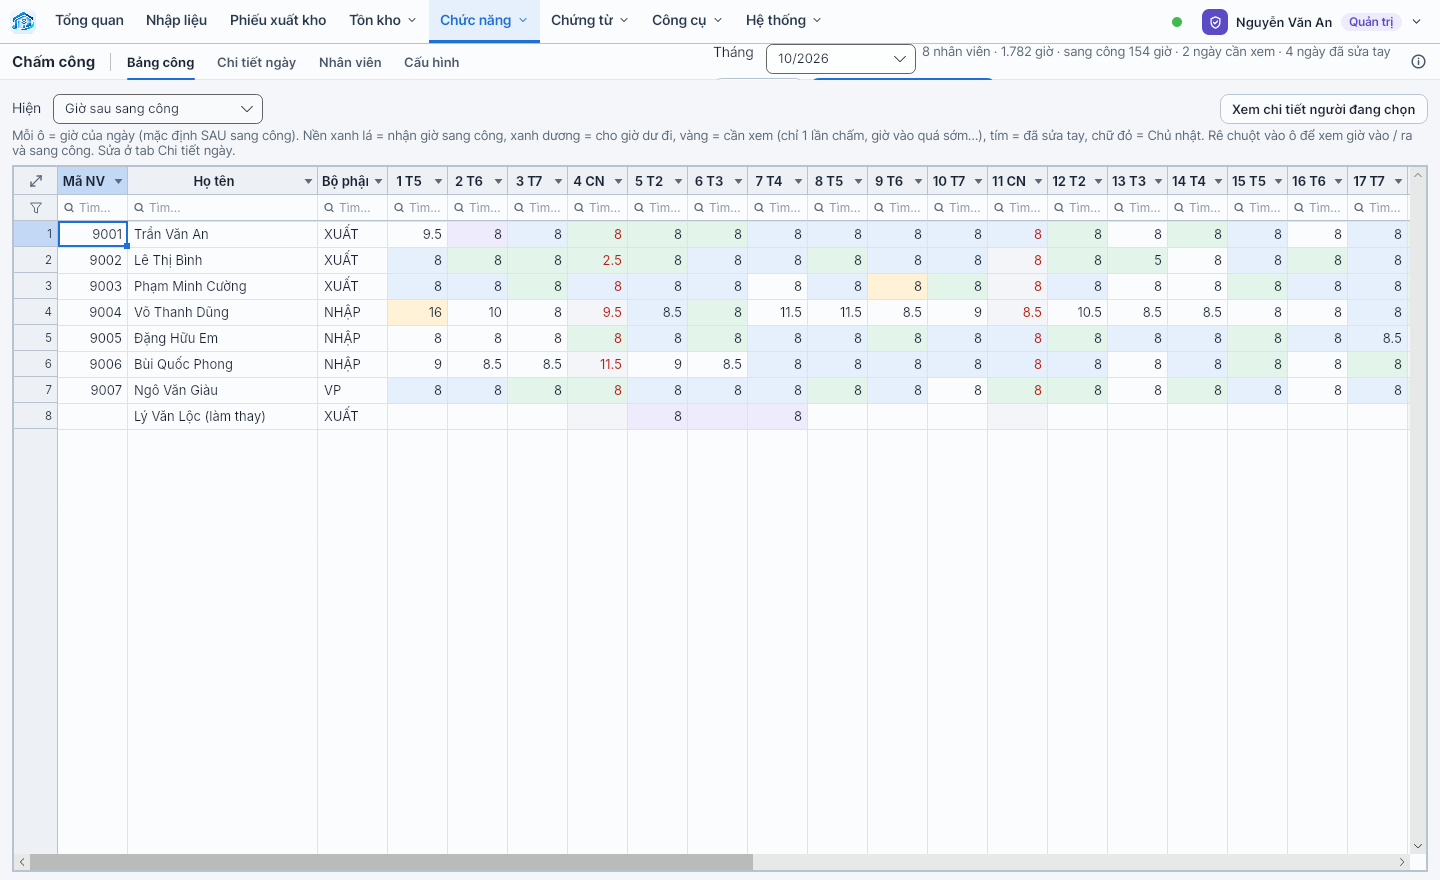
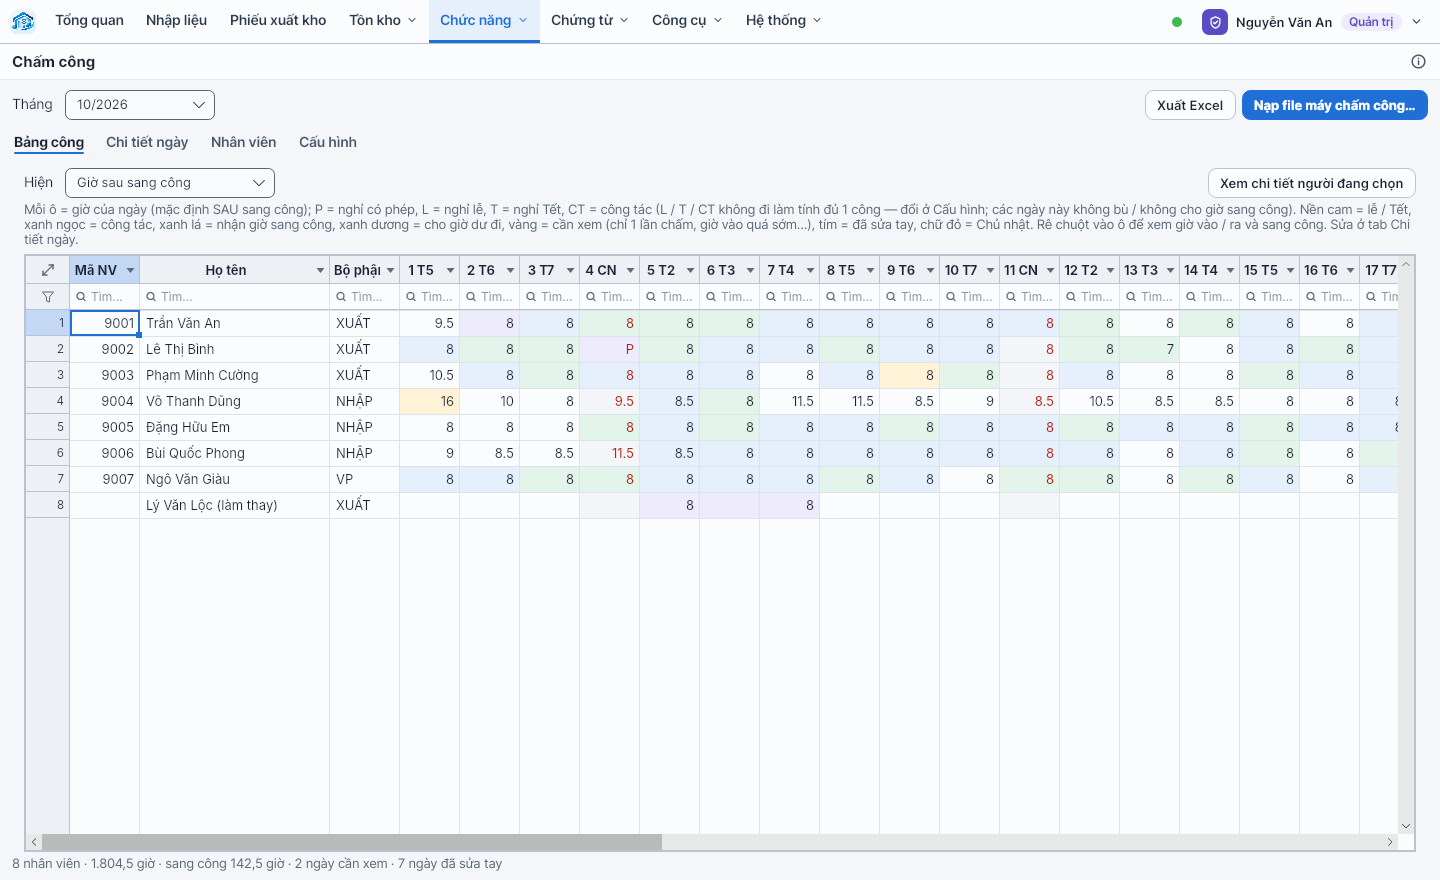
Chấm công: tự kiểm lễ / Tết / công tác (SHOTS_ONLY=cc), sửa nút Xuất Excel / Nạp file bị khuất ở hàng tên trang, Cấu hình hiện khung Ngày lễ
Claude-Session: https://claude.ai/code/session_01MTkPYimQvvPsXpUG8Yg2zd

diff --git a/tools/Screenshots/Program.cs b/tools/Screenshots/Program.cs
@@ -1861,7 +1861,7 @@ if (Environment.GetEnvironmentVariable("SHOTS_ONLY") == "cc")
     var bu = t.Ngays.FirstOrDefault(d => t.Dong[(nv2.Id, d)].Chot == 0 && t.Dong[(nv2.Id, d)].Nhan.Count > 0);
     if (bu != default)
     {
-        cc.SaveSua("2026-10", new[] { new KhoLanh.Core.ChamCong.CcSua { Nv = nv2.Id, Ngay = bu, Phep = true } });
+        cc.SaveSua("2026-10", new[] { new KhoLanh.Core.ChamCong.CcSua { Nv = nv2.Id, Ngay = bu, Loai = "P" } });
         t = cc.Tinh("2026-10");
         var dp = t.Dong[(nv2.Id, bu)];
         Console.WriteLine($"[CC] nghỉ phép {bu:dd/MM}: sau sang {dp.SauSang} giờ, nhận {dp.Nhan.Count} lần");
@@ -1878,6 +1878,29 @@ if (Environment.GetEnvironmentVariable("SHOTS_ONLY") == "cc")
         if (Math.Abs(du - t.DuCon[n.Id]) > 1e-6) Bad($"giờ dư còn lại lệch: {n.Ten} {du} ≠ {t.DuCon[n.Id]}");
         if (t.DuCon[n.Id] > 0 && t.Ngays.Any(d => t.Dong[(n.Id, d)].SauSang < 8)) Bad($"{n.Ten} còn giờ dư mà vẫn có ngày chưa đủ 8 tiếng");
     }
+    // 1.129 lễ / Tết / công tác: ngày 20/10 = lễ chung (Cấu hình), người thứ 4 công tác ngày 21 + 22 (không giờ chấm)
+    {
+        var cfg = cc.CauHinh; cfg.NgayLe[new DateOnly(2026, 10, 20)] = ("L", "Lễ thử (dữ liệu giả)"); cc.SaveCauHinh(cfg);
+        var nv4 = cc.NhanVien[3];
+        cc.SaveSua("2026-10", new[] { 21, 22 }.Select(d => new KhoLanh.Core.ChamCong.CcSua { Nv = nv4.Id, Ngay = new DateOnly(2026, 10, d), Loai = "CT", Vao = "", Ra = "" }));
+        t = cc.Tinh("2026-10");
+        var le = new DateOnly(2026, 10, 20);
+        foreach (var n in t.Nvs)
+        {
+            var dl = t.Dong[(n.Id, le)];
+            if (dl.Loai != "L" || dl.TenLe.Length == 0) Bad($"{n.Ten} ngày 20 chưa là lễ chung ({dl.Loai})");
+            if (dl.Nhan.Count > 0 || dl.Cho.Count > 0) Bad($"{n.Ten} ngày lễ vẫn sang công");
+            if (dl.DuCong && (Math.Abs(dl.SauSang - 8) > 1e-9 || dl.GioLe != 0)) Bad($"{n.Ten} nghỉ lễ: sau sang {dl.SauSang} (cần 8), giờ lễ {dl.GioLe} (cần 0)");
+            if (!dl.DuCong && Math.Abs(dl.GioLe - dl.Chot) > 1e-9) Bad($"{n.Ten} đi làm ngày lễ: giờ lễ {dl.GioLe} ≠ chốt {dl.Chot}");
+        }
+        foreach (var d in new[] { 21, 22 })
+        {
+            var dc = t.Dong[(nv4.Id, new DateOnly(2026, 10, d))];
+            if (dc.Loai != "CT" || !dc.DuCong || Math.Abs(dc.SauSang - 8) > 1e-9 || dc.Nhan.Count > 0 || dc.CanhBao.Length > 0) Bad($"công tác ngày {d}: loại {dc.Loai} đủ công {dc.DuCong} sau sang {dc.SauSang} nhận {dc.Nhan.Count} cảnh báo \"{dc.CanhBao}\"");
+        }
+        Console.WriteLine($"[CC] lễ 20/10: {t.Nvs.Count(n => !t.Dong[(n.Id, le)].DuCong)} người đi làm, {t.Nvs.Count(n => t.Dong[(n.Id, le)].DuCong)} người nghỉ đủ công (giờ lễ {t.Nvs.Sum(t.GioLe):0.##}) · công tác {t.NgayLoai(nv4, "CT")} ngày · nghỉ phép {t.Nvs.Sum(t.NgayPhep)} ngày");
+        v!.Reload(); W();
+    }
     Snap(main, "cc1-bang-cong");
     // sửa tay qua lưới Chi tiết: ngày 9 người thứ 3 quên bấm ra → gõ 17:00
     v!._tabs.SelectedIndex = 1; W();
@@ -1890,6 +1913,9 @@ if (Environment.GetEnvironmentVariable("SHOTS_ONLY") == "cc")
     Console.WriteLine($"[CC] sửa giờ ra ngày 9: {c9b.Vao}-{c9b.Ra} → chốt {c9b.Chot} (sửa tay {c9b.SuaRa})");
     if (!c9b.SuaRa || c9b.Ra != "17:00" || c9b.Chot <= 0) Bad("sửa giờ ra qua lưới không lưu");
     Snap(main, "cc2-chi-tiet");
+    cbo.SelectedIndex = 4; W();   // người thứ 4: công tác 21–22, lễ chung 20
+    var r21 = Enumerable.Range(0, v._cm.RowCount).FirstOrDefault(i => v._cm.Get(i, 4) == "21/10/2026");
+    v._cg.Select(r21, 0); W(); Snap(main, "cc2b-chi-tiet-le-cong-tac");
     v._tabs.SelectedIndex = 2; W(); Snap(main, "cc3-nhan-vien");
     v._tabs.SelectedIndex = 3; W(); Snap(main, "cc4-cau-hinh");
     var xl = System.IO.Path.Combine(outDir, "ChamCong_2026-10.xlsx");

diff --git a/src/KhoLanh.App/Views/ChamCongView.cs b/src/KhoLanh.App/Views/ChamCongView.cs
@@ -39,7 +39,7 @@ public sealed class ChamCongView : UserControl, IPage
     private bool SauSangView => _bView.SelectedIndex != 1;
     // Chi tiết
     internal readonly GridModel _cm = new();
-    private readonly SheetGrid _cg;
+    internal readonly SheetGrid _cg;
     private readonly ComboBox _cNv = new() { MinWidth = 220 };
     private readonly CheckBox _cOnly = new() { Content = "Chỉ ngày cần xem / đã sửa", VerticalAlignment = VerticalAlignment.Center };
     private List<CcDong> _cRows = new();
@@ -84,7 +84,6 @@ public sealed class ChamCongView : UserControl, IPage
         var bar = new ToolRow { Margin = new Thickness(0, 4, 0, 6) };
         bar.Children.Add(new TextBlock { Text = "Tháng", VerticalAlignment = VerticalAlignment.Center, Margin = new Thickness(0, 0, 6, 0) });
         bar.Children.Add(_thang);
-        bar.Children.Add(_st);
         bar.Children.Add(ToolRow.Gap());
         if (Svc.CanExport) bar.Children.Add(Btn("Xuất Excel", Export, "Bảng công (nhân viên × ngày, tổng giờ) + Chi tiết (cùng cột bảng Excel làm tay)"));
         if (edit) bar.Children.Add(Btn("Nạp file máy chấm công…", Import, "File \"Chi tiết chấm công\" xuất từ phần mềm máy chấm công (.xlsx / .xls / .csv)", primary: true));
@@ -94,7 +93,10 @@ public sealed class ChamCongView : UserControl, IPage
         _tabs.Items.Add(new TabItem { Header = "Nhân viên", Content = Pad(BuildNhanVien()) });
         _tabs.Items.Add(new TabItem { Header = "Cấu hình", Content = Pad(BuildCauHinh()) });
         var dock = new DockPanel();
-        DockPanel.SetDock(bar, Dock.Top); dock.Children.Add(bar); dock.Children.Add(_tabs);
+        // thanh Tháng + nút được MainWindow kéo lên hàng tên trang (chỗ hẹp, 1 dòng) → dòng tóm tắt _st để riêng dưới đáy trang
+        _st.TextTrimming = TextTrimming.CharacterEllipsis; _st.Margin = new Thickness(0, 4, 0, 0);
+        DockPanel.SetDock(bar, Dock.Top); dock.Children.Add(bar);
+        DockPanel.SetDock(_st, Dock.Bottom); dock.Children.Add(_st); dock.Children.Add(_tabs);
         Content = dock;
         AttachedToVisualTree += (_, _) => Reload();
     }
@@ -113,7 +115,7 @@ public sealed class ChamCongView : UserControl, IPage
 
     // ================================================================== nạp / tính
 
-    private void Reload(string? chon = null)
+    internal void Reload(string? chon = null)
     {
         Svc.Load();
         _loading = true;
@@ -534,7 +536,8 @@ public sealed class ChamCongView : UserControl, IPage
         right.Children.Add(new TextBlock { Text = "Ngày lễ / Tết (cả kho)", Classes = { "section" }, Margin = new Thickness(0, 10, 0, 0) });
         right.Children.Add(Muted("Ngày (dd/MM/yyyy) · Loại L = lễ, T = Tết · Tên. Áp cho mọi nhân viên; người nào đi làm / không nghỉ thì sửa riêng ở cột Loại ngày tab Chi tiết. Lưu cùng nút Lưu cấu hình."));
         right.Children.Add(new Border { Height = 280, Child = Framed(_lg) });
-        var g = new Grid { ColumnDefinitions = new ColumnDefinitions("Auto,24,Auto"), VerticalAlignment = VerticalAlignment.Top };
+        left.MaxWidth = 900; left.HorizontalAlignment = HorizontalAlignment.Left;   // ghi chú dài xuống dòng, không đẩy khung phải ra ngoài
+        var g = new Grid { ColumnDefinitions = new ColumnDefinitions("*,24,Auto"), VerticalAlignment = VerticalAlignment.Top };
         g.Children.Add(left); Grid.SetColumn(right, 2); g.Children.Add(right);
         return new ScrollViewer { Content = g };
     }
